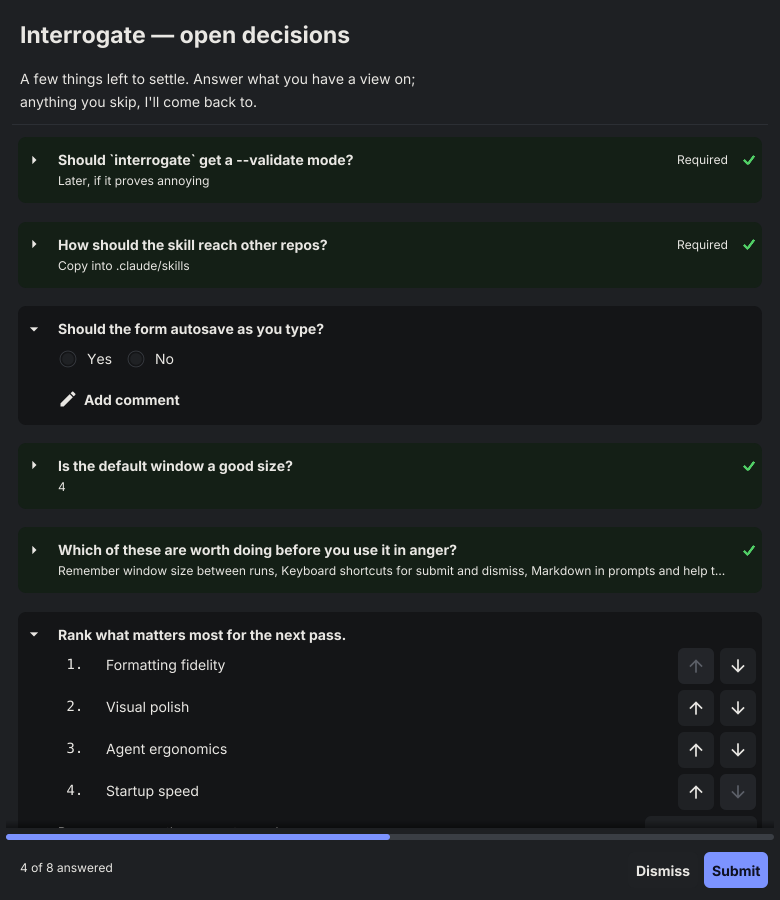
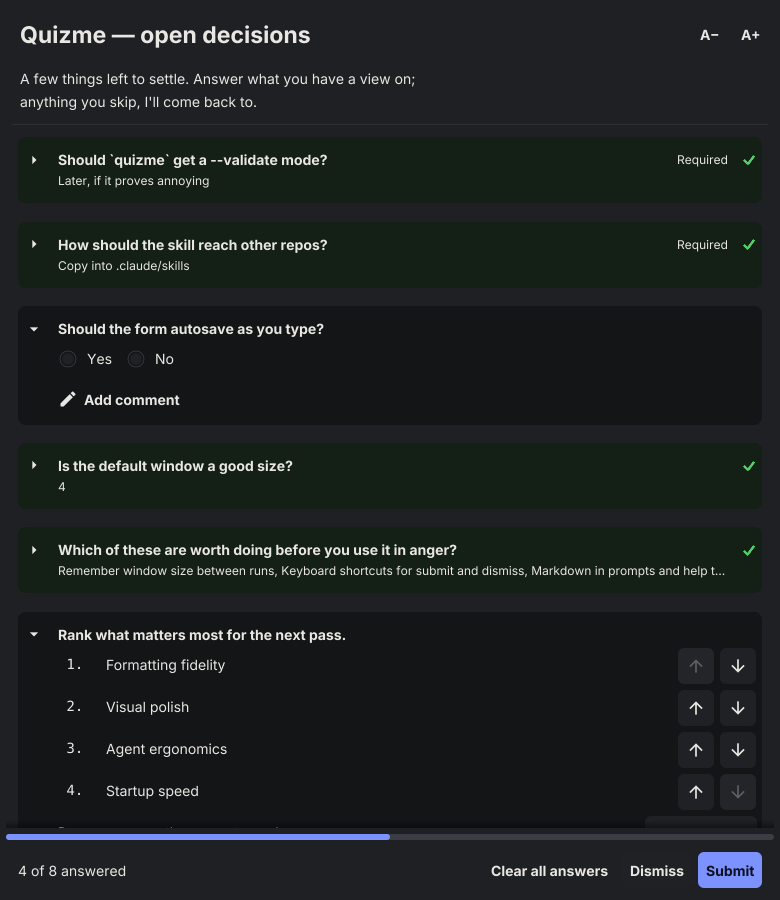
Show the form as it looks now

diff --git a/README.md b/README.md
@@ -8,7 +8,7 @@ them one at a time in chat is slow, easy to lose, and impossible to answer out
 of order. `quizme` turns them into a form: one scrolling page, answer in
 any order, attach a comment to anything, submit once.
 
-![The form](internal/ui/testdata/preview-light.png)
+![The form](./screenshot.png)
 
 ## Install
 
